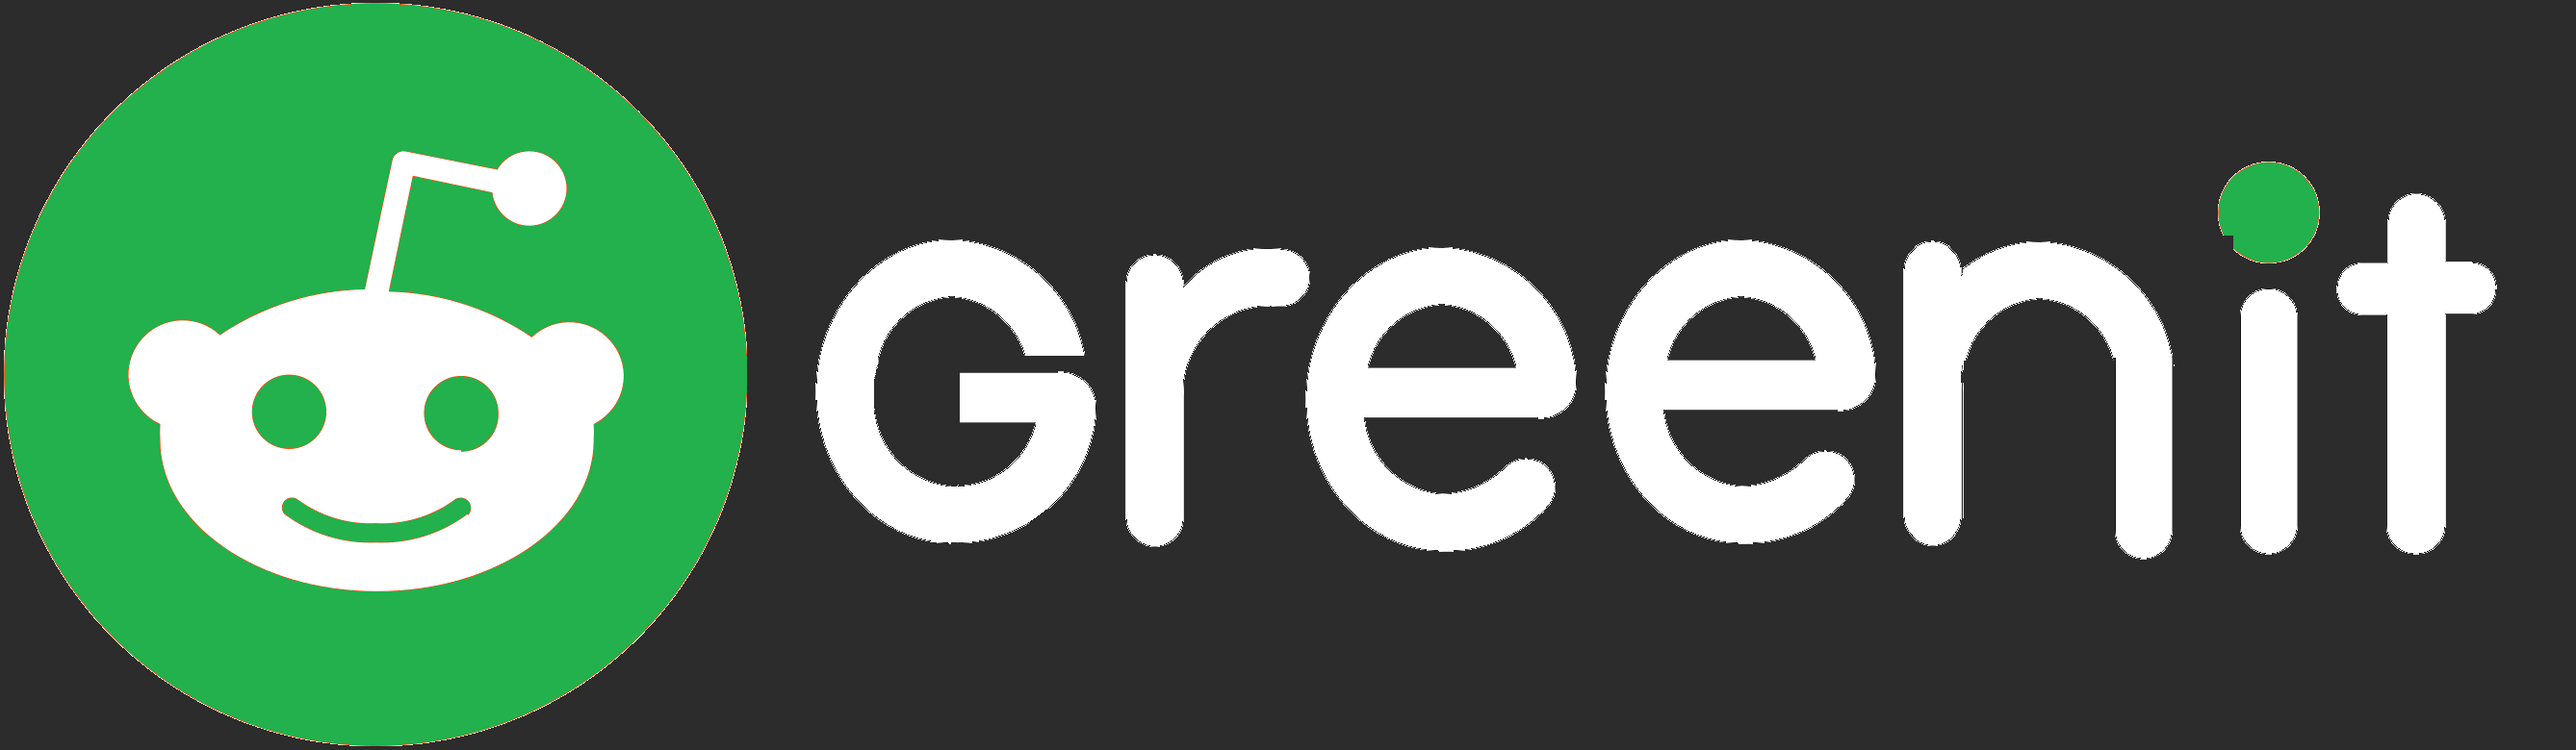
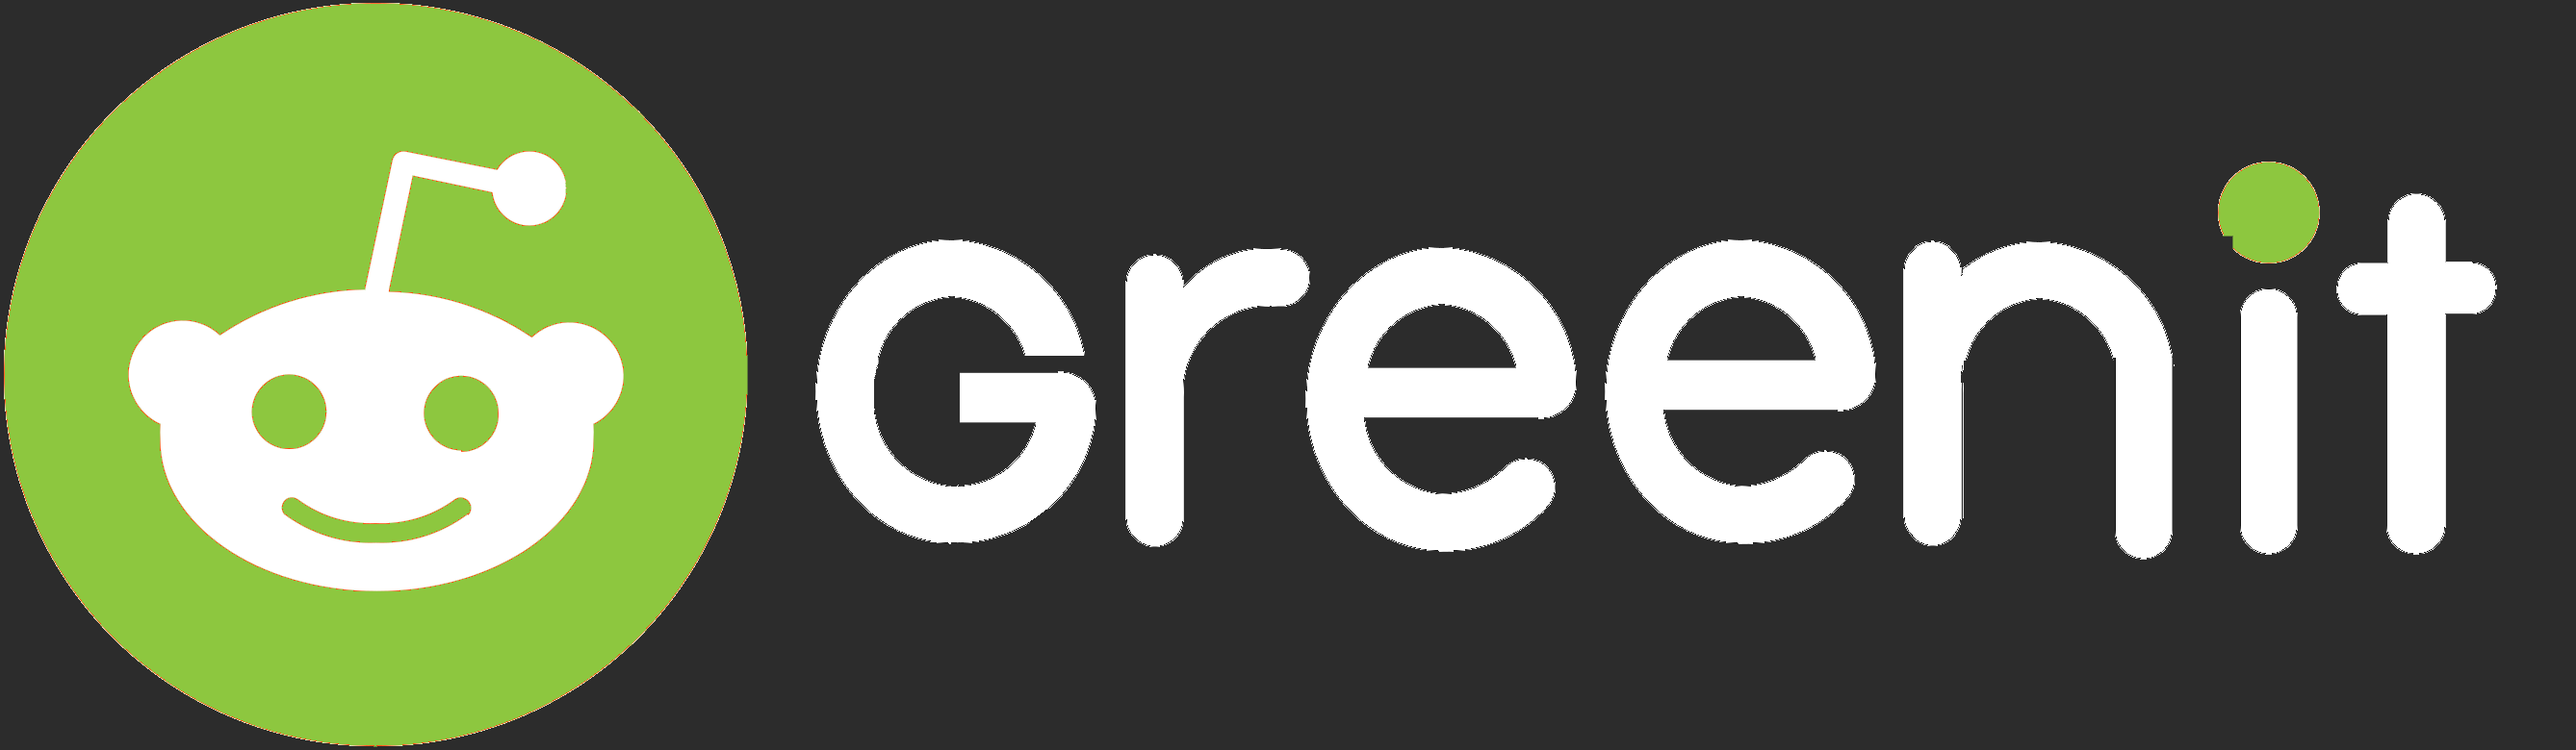
Working, but edit

Changed region(s): [[0.0, 0.0, 0.3102, 1.0], [0.8374, 0.2154, 0.8995, 0.3692], [0.093, 0.4923, 0.1241, 0.6154]]

diff --git a/Greenit/wwwroot/css/site.css b/Greenit/wwwroot/css/site.css
@@ -34,24 +34,40 @@ body{
   }
 }
 
-h2{
-    color:white;
+table {
+    border: 2px dimgray;
+    border-radius: 15px;
+    overflow: hidden;
 }
 
+h1{
+    color:white;
+}
+h4, h3, h5 {
+    color: #8dc73f;
+}
 
 thead{
-    background-color: dimgray;
+    background-color: white;
     color: #F0f7F4;
 }
 
+th{
+    color:black;
+}
 td {
     background-color: rgba(0, 0, 0, .05);
-    color:green;
-    font-weight:bold;
+    color: #8dc73f;
+    font-weight: bold;
+}
+
+a.letteredChannel {
+    color: #8dc73f;
+    text-decoration: none;
 }
 
 .border-top {
-  border-top: 1px solid #e5e5e5;
+    border-top: 1px solid #e5e5e5;
 }
 .border-bottom {
   border-bottom: 1px solid #e5e5e5;
@@ -83,6 +99,8 @@ body {
     font-family: museo;
     background-color: black;
     background-size:cover;
+    width: 100%;
+
 }
 .footer {
   position: absolute;
@@ -114,4 +132,13 @@ header {
 .nav-link text-dark {
     background-color: white !important;
     color: white;
+}
+
+p, label{
+    color:white;
+}
+
+button.btn.btn-primary, input.btn.btn-primary {
+    background-color: #8dc73f;
+    border-color: black;
 }

diff --git a/Greenit/Data/Migrations/20190318052533_testmigration2.cs b/Greenit/Data/Migrations/20190318052533_testmigration2.cs
@@ -1,0 +1,53 @@
+using Microsoft.EntityFrameworkCore.Migrations;
+
+namespace Greenit.Data.Migrations
+{
+    public partial class testmigration2 : Migration
+    {
+        protected override void Up(MigrationBuilder migrationBuilder)
+        {
+            migrationBuilder.CreateTable(
+                name: "User",
+                columns: table => new
+                {
+                    Id = table.Column<int>(nullable: false)
+                        .Annotation("Sqlite:Autoincrement", true),
+                    Username = table.Column<string>(nullable: true),
+                    ChannelId = table.Column<int>(nullable: true),
+                    ChannelId1 = table.Column<int>(nullable: true)
+                },
+                constraints: table =>
+                {
+                    table.PrimaryKey("PK_User", x => x.Id);
+                    table.ForeignKey(
+                        name: "FK_User_Channels_ChannelId",
+                        column: x => x.ChannelId,
+                        principalTable: "Channels",
+                        principalColumn: "Id",
+                        onDelete: ReferentialAction.Restrict);
+                    table.ForeignKey(
+                        name: "FK_User_Channels_ChannelId1",
+                        column: x => x.ChannelId1,
+                        principalTable: "Channels",
+                        principalColumn: "Id",
+                        onDelete: ReferentialAction.Restrict);
+                });
+
+            migrationBuilder.CreateIndex(
+                name: "IX_User_ChannelId",
+                table: "User",
+                column: "ChannelId");
+
+            migrationBuilder.CreateIndex(
+                name: "IX_User_ChannelId1",
+                table: "User",
+                column: "ChannelId1");
+        }
+
+        protected override void Down(MigrationBuilder migrationBuilder)
+        {
+            migrationBuilder.DropTable(
+                name: "User");
+        }
+    }
+}

diff --git a/Greenit/Controllers/BlogPostsController.cs b/Greenit/Controllers/BlogPostsController.cs
@@ -72,7 +72,7 @@ namespace Greenit.Controllers
             return View();
         }
 
-
+        [Authorize(Policy = MyIdentityData.BlogPolicy_Edit)]
         public async Task<IActionResult> Edit(int? id)
         {
             if (id == null)
@@ -81,6 +81,7 @@ namespace Greenit.Controllers
             }
 
             var blogPost = await _context.BlogPosts.FindAsync(id);
+            //blogPost.Posted = DateTime.Now;
             if (blogPost == null)
             {
                 return NotFound();
@@ -105,6 +106,7 @@ namespace Greenit.Controllers
                 {
                     try
                     {
+                        blogPost.Posted = DateTime.Now;
                         _context.Update(blogPost);
                         await _context.SaveChangesAsync();
                     }

diff --git a/Greenit/Data/Migrations/20190318052533_testmigration2.Designer.cs b/Greenit/Data/Migrations/20190318052533_testmigration2.Designer.cs
@@ -3,14 +3,16 @@ using System;
 using Greenit.Data;
 using Microsoft.EntityFrameworkCore;
 using Microsoft.EntityFrameworkCore.Infrastructure;
+using Microsoft.EntityFrameworkCore.Migrations;
 using Microsoft.EntityFrameworkCore.Storage.ValueConversion;
 
 namespace Greenit.Data.Migrations
 {
     [DbContext(typeof(ApplicationDbContext))]
-    partial class ApplicationDbContextModelSnapshot : ModelSnapshot
+    [Migration("20190318052533_testmigration2")]
+    partial class testmigration2
     {
-        protected override void BuildModel(ModelBuilder modelBuilder)
+        protected override void BuildTargetModel(ModelBuilder modelBuilder)
         {
 #pragma warning disable 612, 618
             modelBuilder
